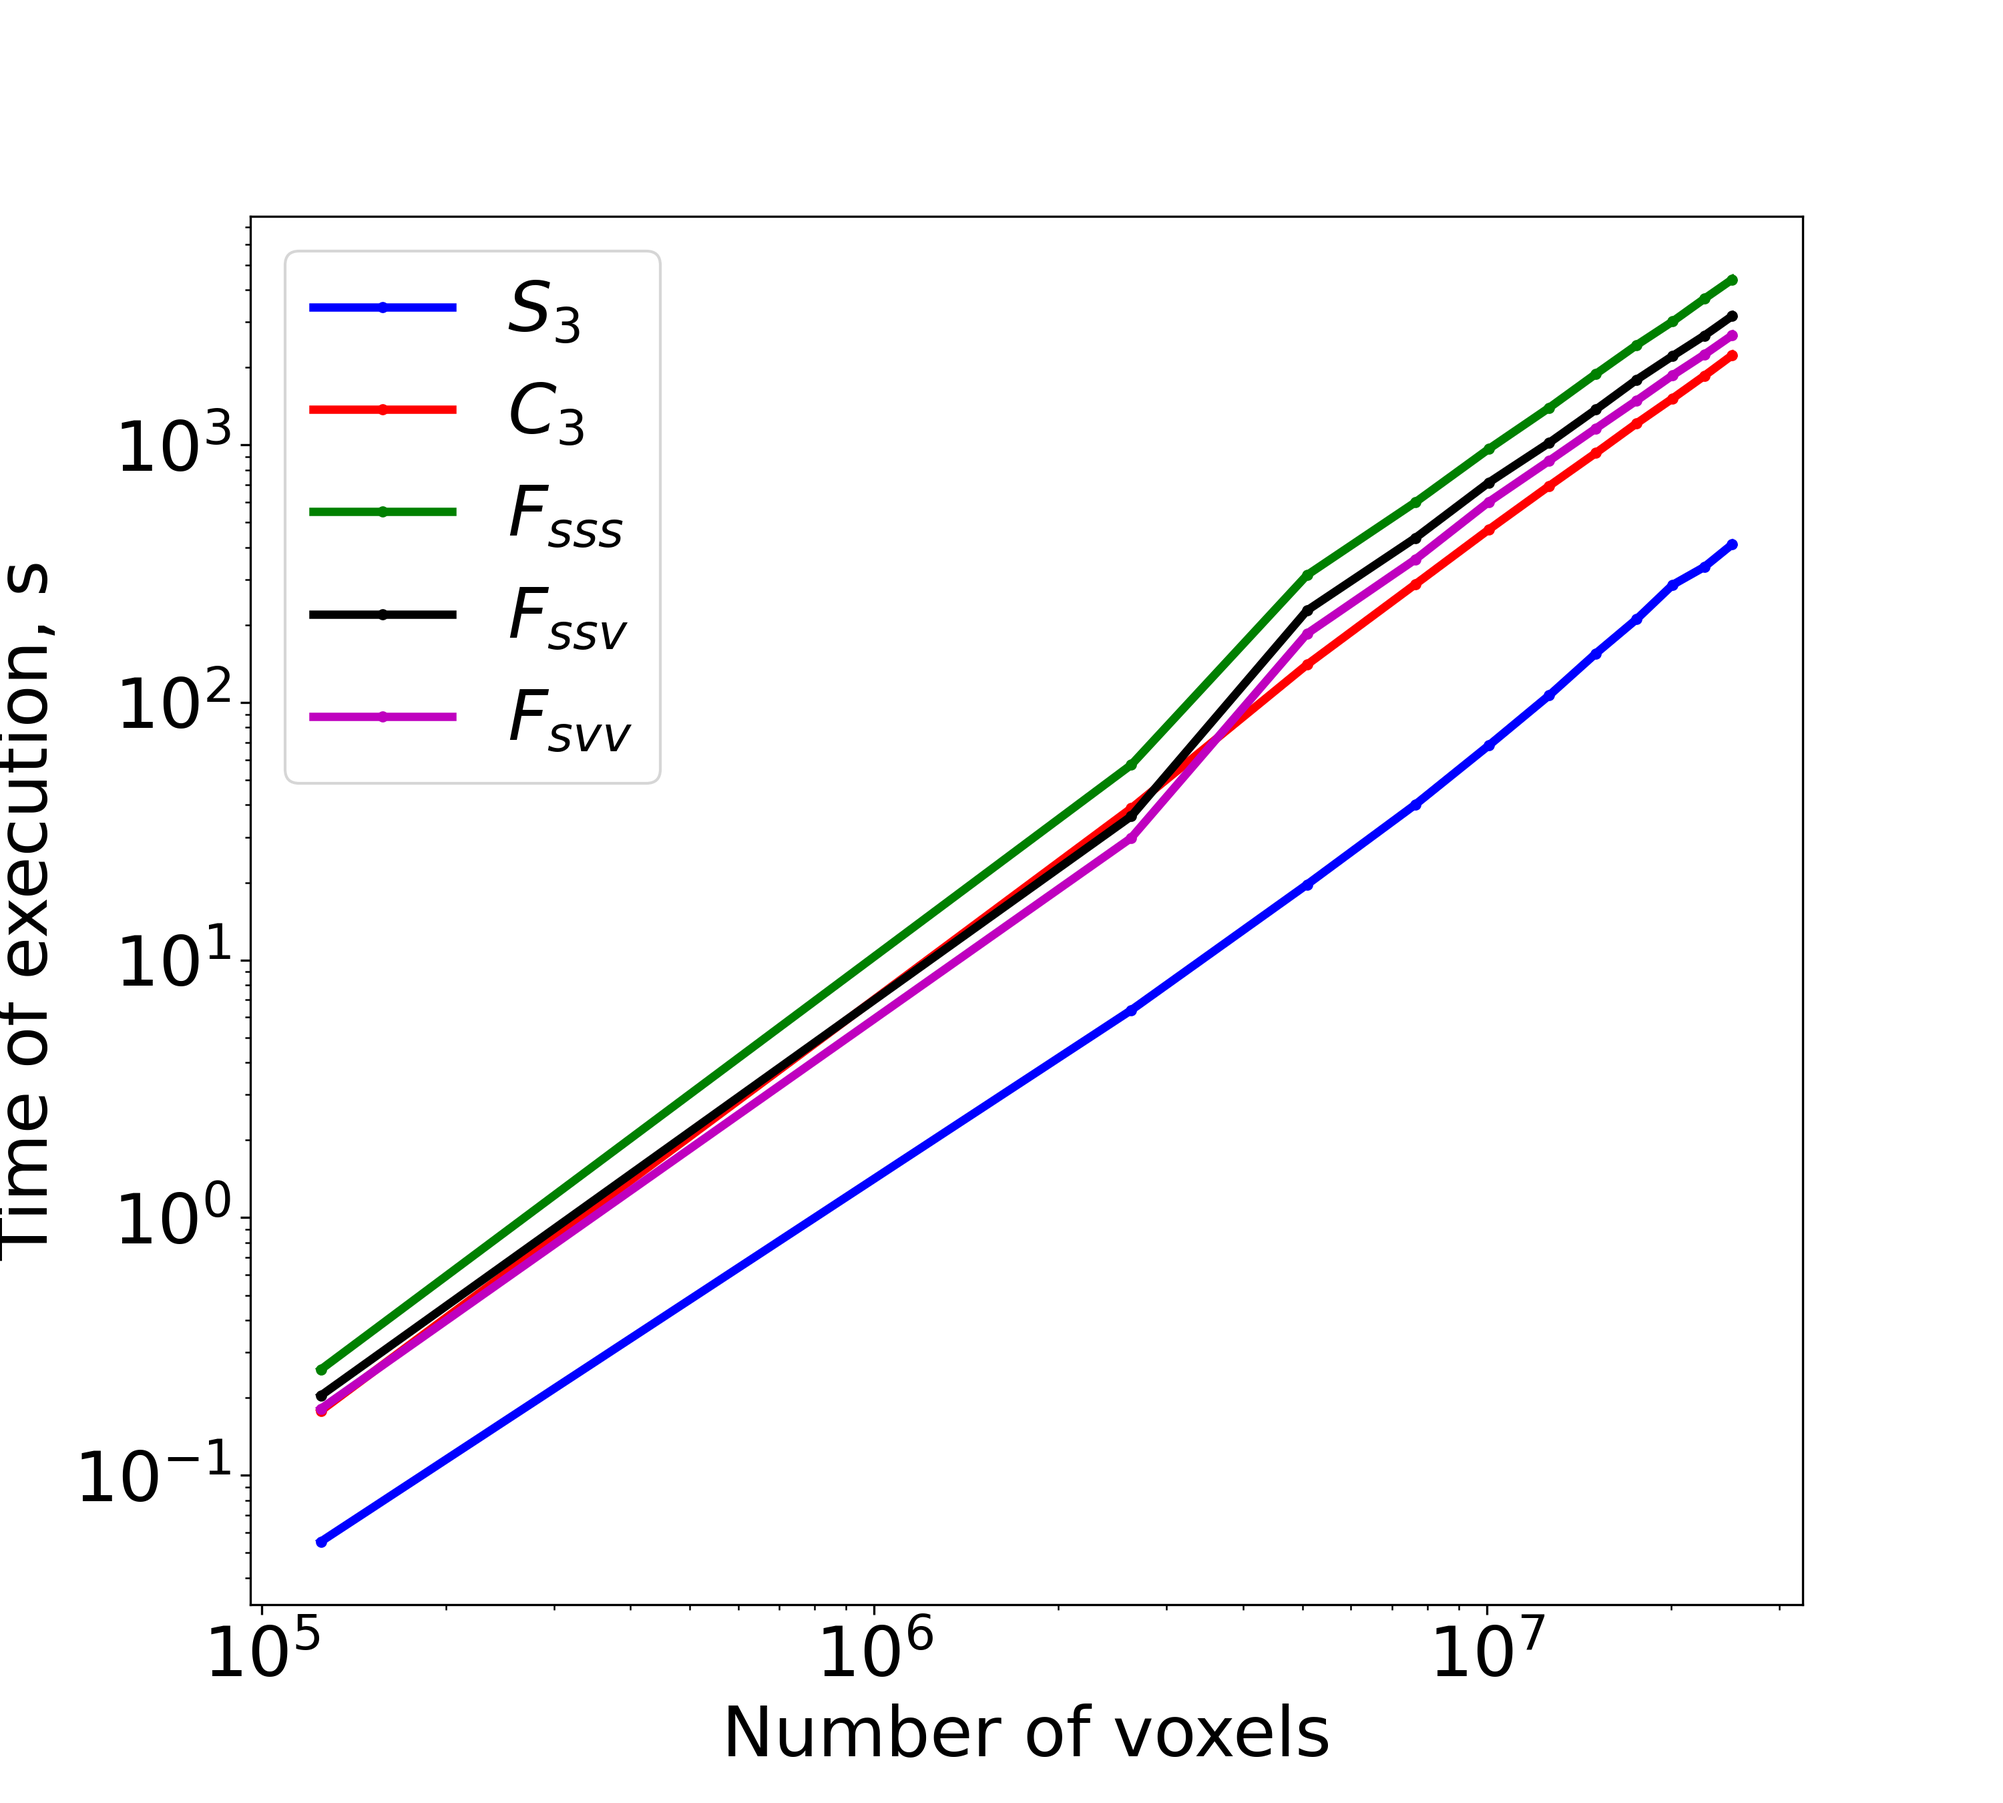
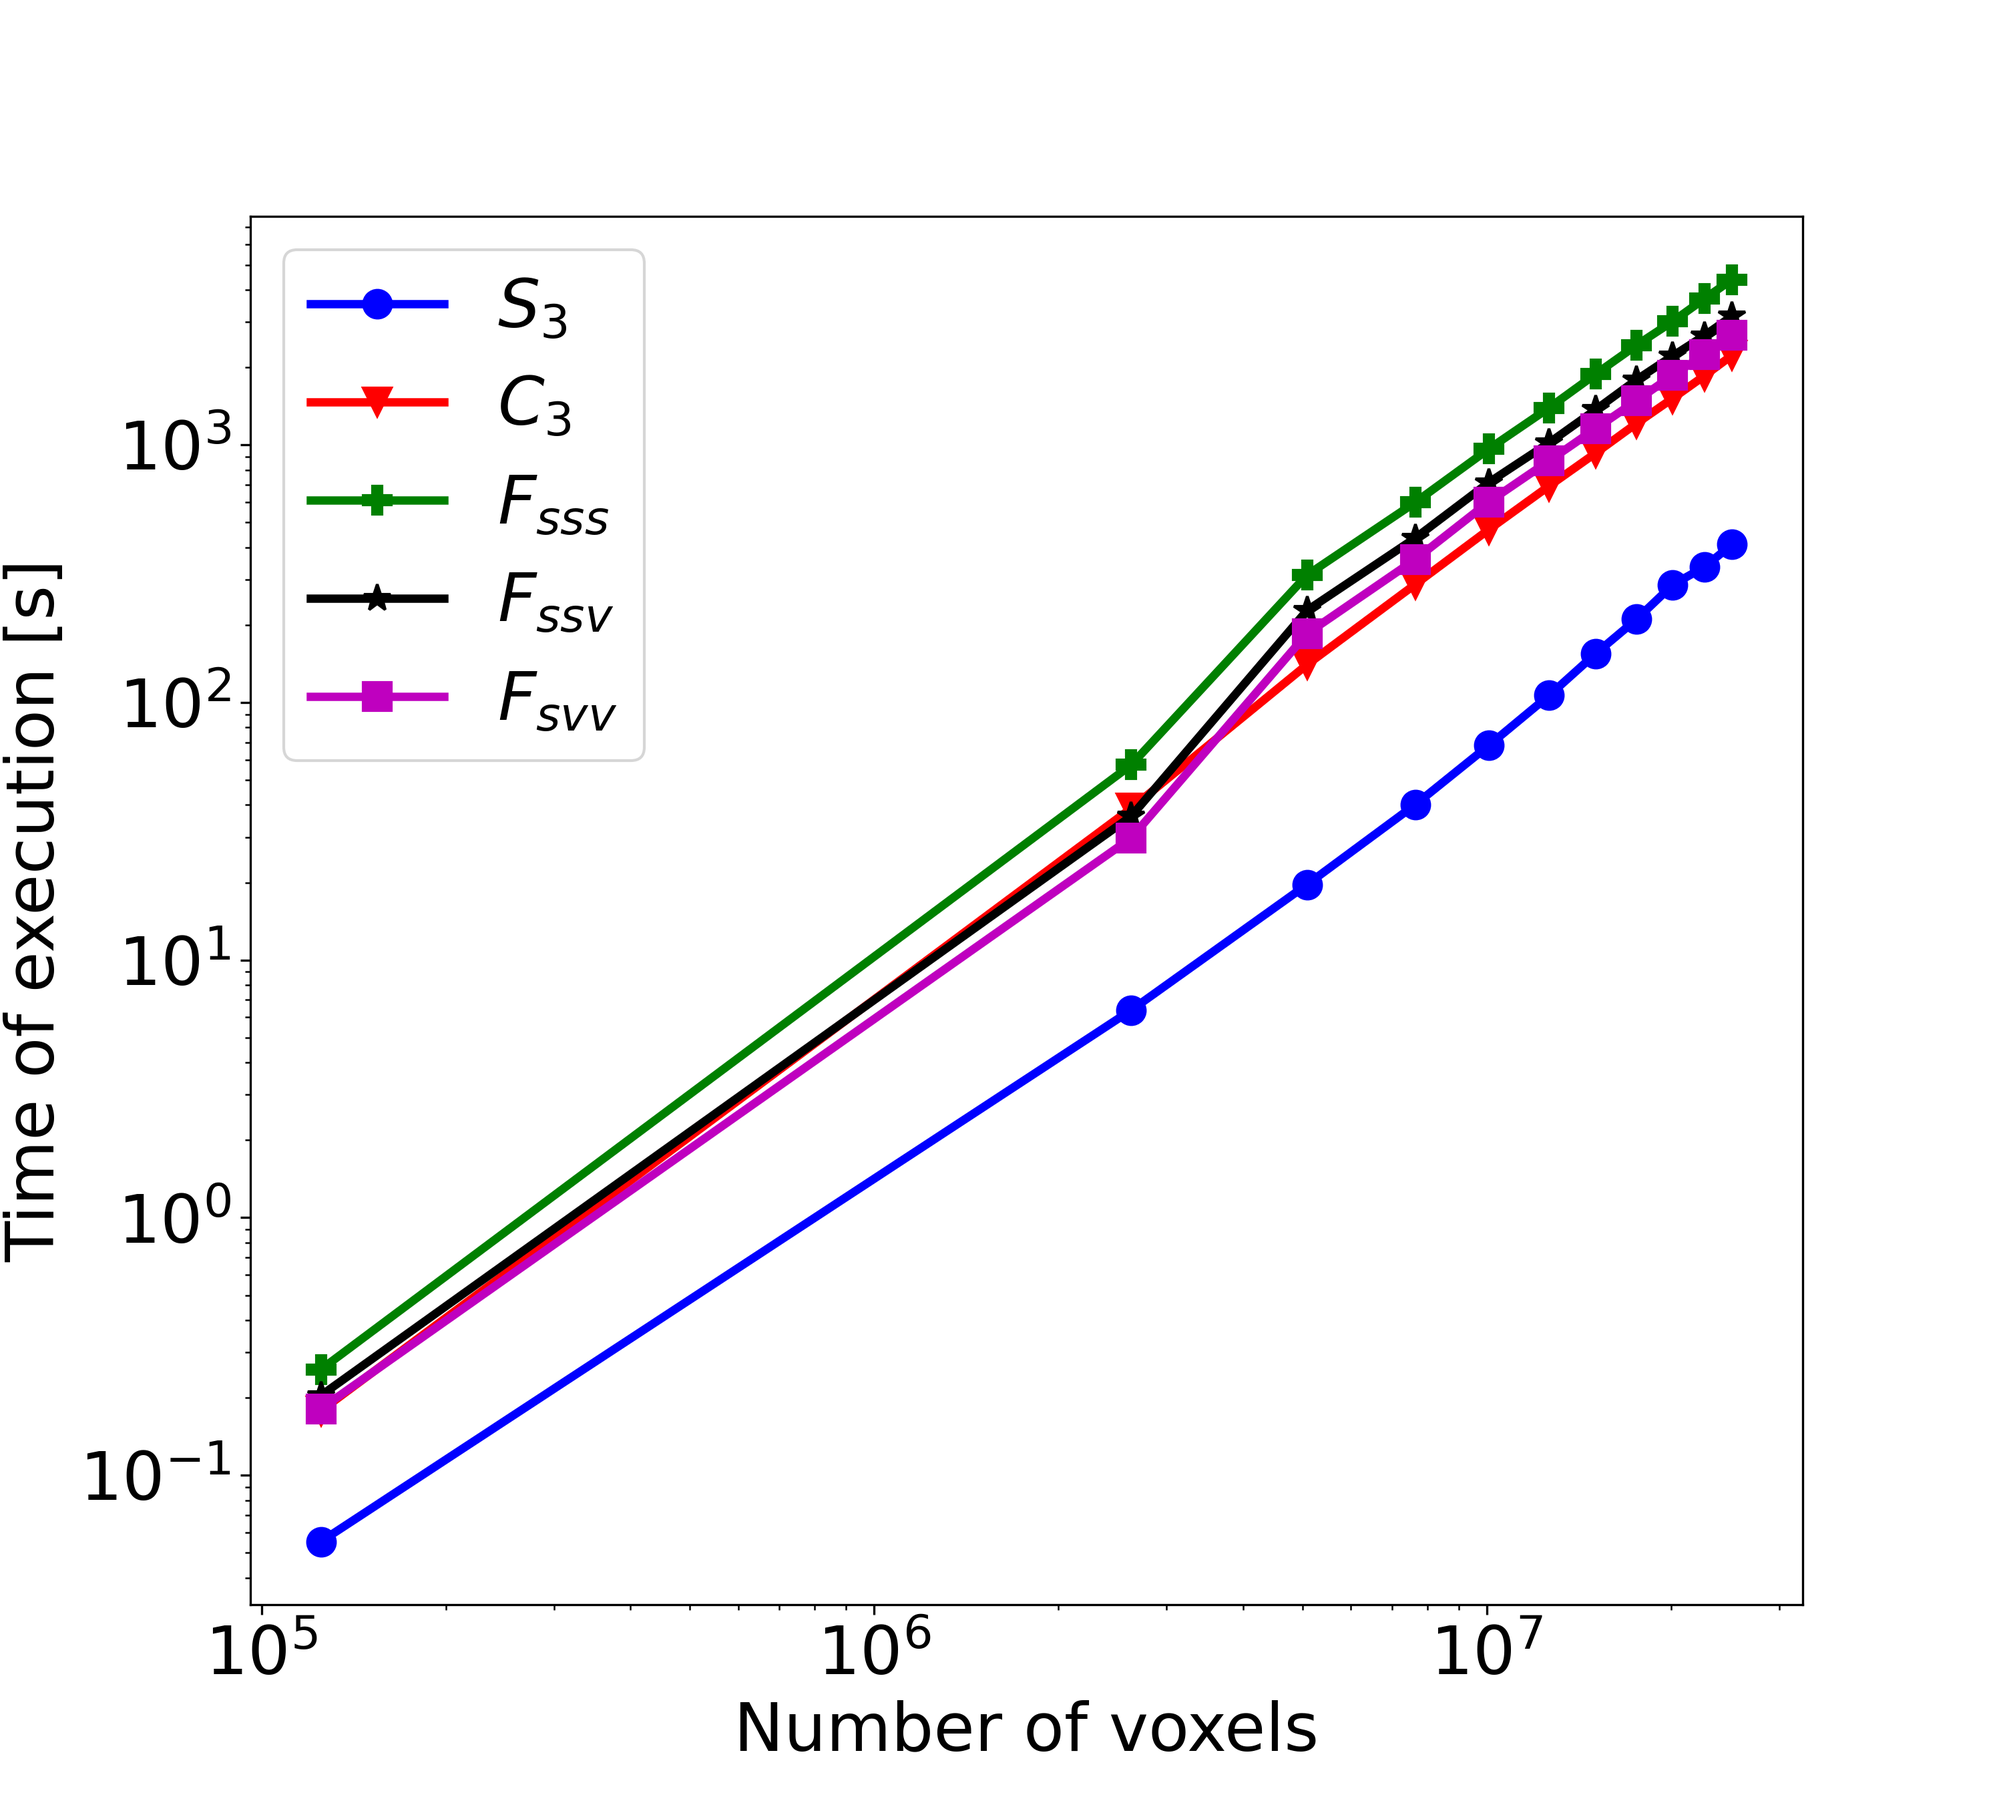
Fix two images

diff --git a/timings/timings.py b/timings/timings.py
@@ -5,18 +5,18 @@ import matplotlib.pyplot as plt
 
 legend = ['$S_3$', '$C_3$', '$F_{sss}$', '$F_{ssv}$', '$F_{svv}$']
 names = map(lambda name: name + '.npy', ['s3', 'c3', 'surf3', 'surf2void', 'surfvoid2'])
-colors = ['b', 'r', 'g', 'k', 'm']
+colors = ['bo', 'rv', 'gP', 'k*', 'ms']
 
 plt.figure(figsize = (10, 9), dpi = 300)
-plt.rc('font', size = 25)
+plt.rc('font', size = 24)
 
 for (name, color) in zip(names, colors):
     data = np.load('gpu/' + name)
-    plt.plot(data[:,0]**3, data[:,1], color + '.-', linewidth = 3)
+    plt.plot(data[:,0]**3, data[:,1], color + '-', linewidth = 3, markersize = 10)
 
 plt.legend(legend)
 plt.yscale('log')
 plt.xscale('log')
 plt.xlabel('Number of voxels')
-plt.ylabel('Time of execution, s')
+plt.ylabel('Time of execution [s]')
 plt.savefig('timings-gpu.png')
